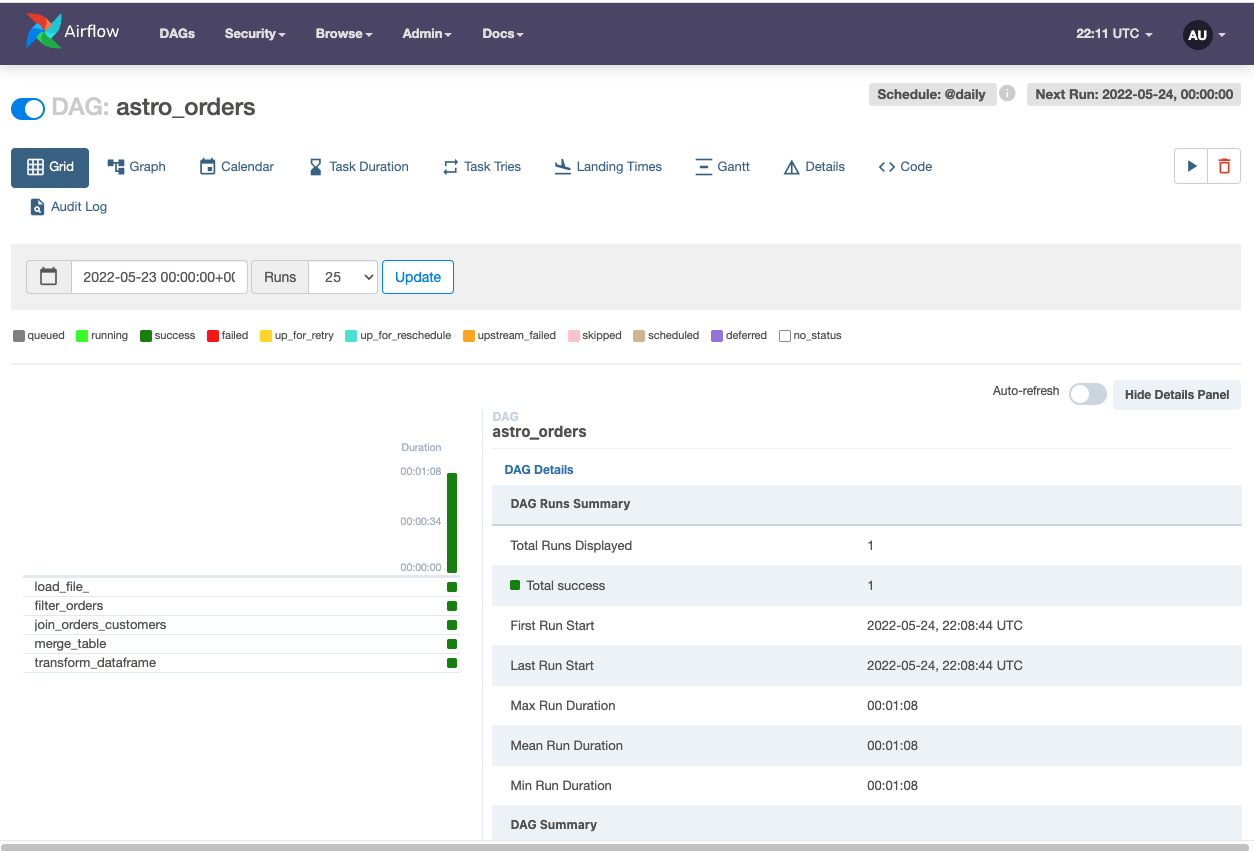
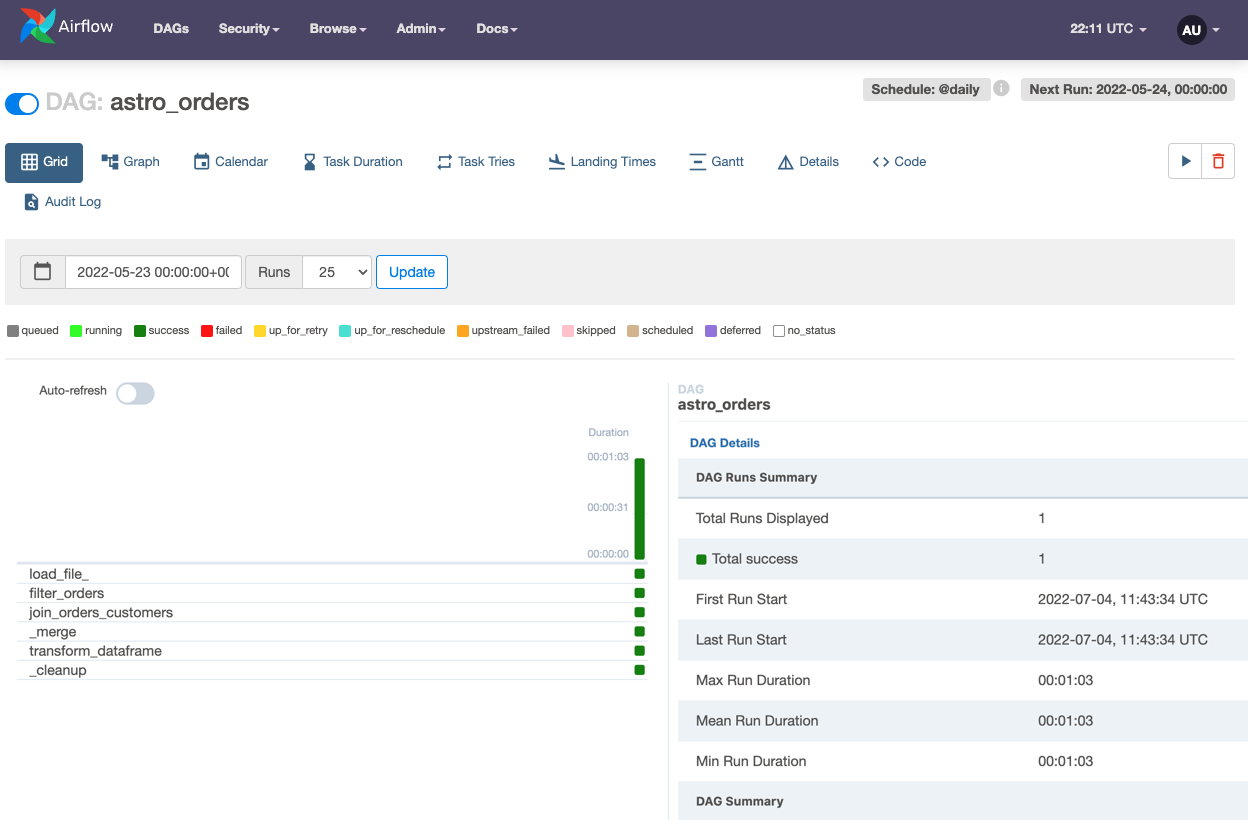
Add cleanup task to the tutorial (#501)

diff --git a/TUTORIAL.md b/TUTORIAL.md
@@ -76,24 +76,11 @@ need to be consistent with whatever names you choose throughout the remainder of
 
 ## Install Astro-SDK on your local machine
 
-* Run the following command to install the Python SDK.
+* Run the following command to install the Python SDK, with the extra packages necessary to access AWS and Snowflake.
+
 
   ```shell
-  pip install 'astro-sdk-python>=0.9'
-  ```
-
-  You can also install dependencies for specific providers by specifying "extras".
-  The following command will install all the dependencies for Amazon & Snowflake:
-
-  ```shell
-  pip install 'astro-sdk-python[amazon,snowflake]>=0.9'
-  ```
-
-  Or, you can install those providers separately using the following command, though we recommend using "extras":
-
-  ```shell
-  pip install apache-airflow-providers-amazon
-  pip install apache-airflow-providers-snowflake
+  pip install 'astro-sdk-python[amazon,snowflake]>=0.11'
   ```
 
 * Create the following environment variables
@@ -226,7 +213,8 @@ dag = DAG(
 )
 
 with dag:
-    # Extract a file with a header from S3 into a Table object
+    # Extract a file with a header from S3 into a temporary Table, referenced by the
+    # variable `orders_data`
     orders_data = aql.load_file(
         # data file needs to have a header row
         input_file=File(
@@ -235,16 +223,17 @@ with dag:
         output_table=Table(conn_id=SNOWFLAKE_CONN_ID),
     )
 
-    # create a Table object for customer data in our Snowflake database
+    # Create a Table object for customer data in our Snowflake database
     customers_table = Table(
         name=SNOWFLAKE_CUSTOMERS,
         conn_id=SNOWFLAKE_CONN_ID,
     )
 
-    # filter the orders data and then join with the customer table
+    # Filter the orders data and then join with the customer table,
+    # saving the output into a temporary table referenced by the Table instance `joined_data`
     joined_data = join_orders_customers(filter_orders(orders_data), customers_table)
 
-    # merge the joined data into our reporting table, based on the order_id .
+    # Merge the joined data into our reporting table, based on the order_id .
     # If there's a conflict in the customer_id or customer_name then use the ones from
     # the joined data
     reporting_table = aql.merge(
@@ -259,6 +248,10 @@ with dag:
     )
 
     purchase_dates = transform_dataframe(reporting_table)
+
+    # Delete temporary and unnamed tables created by `load_file` and `transform`, in this example
+    # both `orders_data` and `joined_data`
+    aql.cleanup()
 ```
 ***
 # Run it!
@@ -279,16 +272,22 @@ Click on the astro_orders DAG name to see the grid view of its execution:
 
 ## Extract
 
-To extract from S3 into a Table object, we need only specify the location on S3 of the data and a connection for Snowflake that the Python SDK can use for internal purposes:
+To extract from S3 into a SQL Table, we need only specify the location on S3 of the data and a connection for Snowflake that the Python SDK can use for internal purposes:
 
 ```python
-# Extract a file with a header from S3 into a Table object
+# Extract a file with a header from S3 into a temporary Table, referenced by the
+# variable `orders_data`
 orders_data = aql.load_file(
     # data file needs to have a header row
     input_file=File(path=S3_FILE_PATH + "/orders_data_header.csv", conn_id=S3_CONN_ID),
     output_table=Table(conn_id=SNOWFLAKE_CONN_ID),
 )
 ```
+
+In this example, we do not want to persist the content of `orders_data` after the DAG is completed.
+When we create a `Table` object without a name, that table is considered a temporary table.
+The Astro SDK will delete all temporary tables if the user adds the task `aql.cleanup` to the DAG.
+
 ## Transform
 
 We can execute a filter and join in a single line of code to fill in a value for `joined_data`:
@@ -306,22 +305,28 @@ def join_orders_customers(filtered_orders_table: Table, customers_table: Table):
     ON f.customer_id = c.customer_id"""
 
 
-# create a Table object for customer data in our Snowflake database
+# Create a Table object for customer data in our Snowflake database
 customers_table = Table(
-    table=SNOWFLAKE_CUSTOMERS,
+    name=SNOWFLAKE_CUSTOMERS,
     conn_id=SNOWFLAKE_CONN_ID,
 )
 
-# filter the orders data and then join with the customer table
+
+# Filter the orders data and then join with the customer table,
+# saving the output into a temporary table referenced by the Table instance `joined_data`
 joined_data = join_orders_customers(filter_orders(orders_data), customers_table)
 ```
 
+Since the table `customers_table` is named, it is not considered temporary and will not be deleted
+by the end of the DAG run. However, The table `joined_data`, however, was not named in this DAG
+and therefore it will be deleted by the `aql.cleanup` step.
+
 ## Merge
 
-As our penultimate step, we call a database-agnostic merge function:
+As our penultimate transformation, we call a database-agnostic merge function:
 
 ```python
-# merge the joined data into our reporting table, based on the order_id .
+# Merge the joined data into our reporting table, based on the order_id .
 # If there's a conflict in the customer_id or customer_name then use the ones from
 # the joined data
 reporting_table = aql.merge(
@@ -336,9 +341,10 @@ reporting_table = aql.merge(
 )
 ```
 
+
 ## Dataframe transformation
 
-As an illustration of the `@df` decorator, we show a simple dataframe operation:
+As an illustration of the `@aql.dataframe` decorator, we show a simple dataframe operation:
 
 ```python
 @aql.dataframe
@@ -354,3 +360,35 @@ After all that, you'll find the meager output of this example in the logs of the
 
 To view this log output, in the tree view of the DAG, click on the green box next to
 `transform_dataframe` and then on "Log" button.
+
+
+## Clean up temporary tables
+
+Finally, if there were temporary tables (`table.temp=True` or an unnamed tables) in the DAG,
+the user should consider cleaning them up by the end of the DAG run.
+
+It is possible to achieve this using one of the following approaches:
+
+(1) Clean all temporary tables by the end of the DAG run
+
+```python
+# Delete all temporary
+aql.cleanup()
+```
+
+(2) Specify a subset of temporary tables to be deleted
+
+The user may also opt for explicitly setting a subset of tables to be deleted,
+by using one of the following
+
+```python
+aql.cleanup([orders_data, joined_data])
+```
+
+or
+```python
+[orders_data, joined_data] >> aql.cleanup()
+```
+
+In all scenarios, even if the user gives a non-temporary table, only temporary
+tables will actually be deleted.

diff --git a/docs/aep/AEP-2-table-cleanup.md b/docs/aep/AEP-2-table-cleanup.md
@@ -16,7 +16,7 @@ Authors:
 
 ## Motivation
 
-When running `aql.transform` or `aql.load_file` jobs, the Astro SDK implicitly creates temporary tables in the database every time the DAG runs. These extra tables are currently handled by placing all tables into a “temporary schema”. The thought behind these schemas is that a DBA can easily delete the schema if it starts to get full. This answer is insufficient so a better solution for table cleanup should be enacted.
+When running `aql.transform` or `aql.load_file` jobs, unless the user creates named Table instances, the Astro SDK implicitly creates temporary tables in the database every time the DAG runs. These extra tables are currently handled by placing all tables into a “temporary schema”. The thought behind these schemas is that a DBA can easily delete the schema if it starts to get full. This answer is insufficient so a better solution for table cleanup should be enacted.
 
 Temporary schemas are unfortunately an unideal solution to this problem. Users would need to define the same named schema across all of their databases, and there’s no guarantee that a user would even have access to more than one schema in a certain database (e.g. if you only have write access to a sandbox in your snowflake instance, you wouldn’t want to necessarily delete your sandbox.
 ## Proposal
